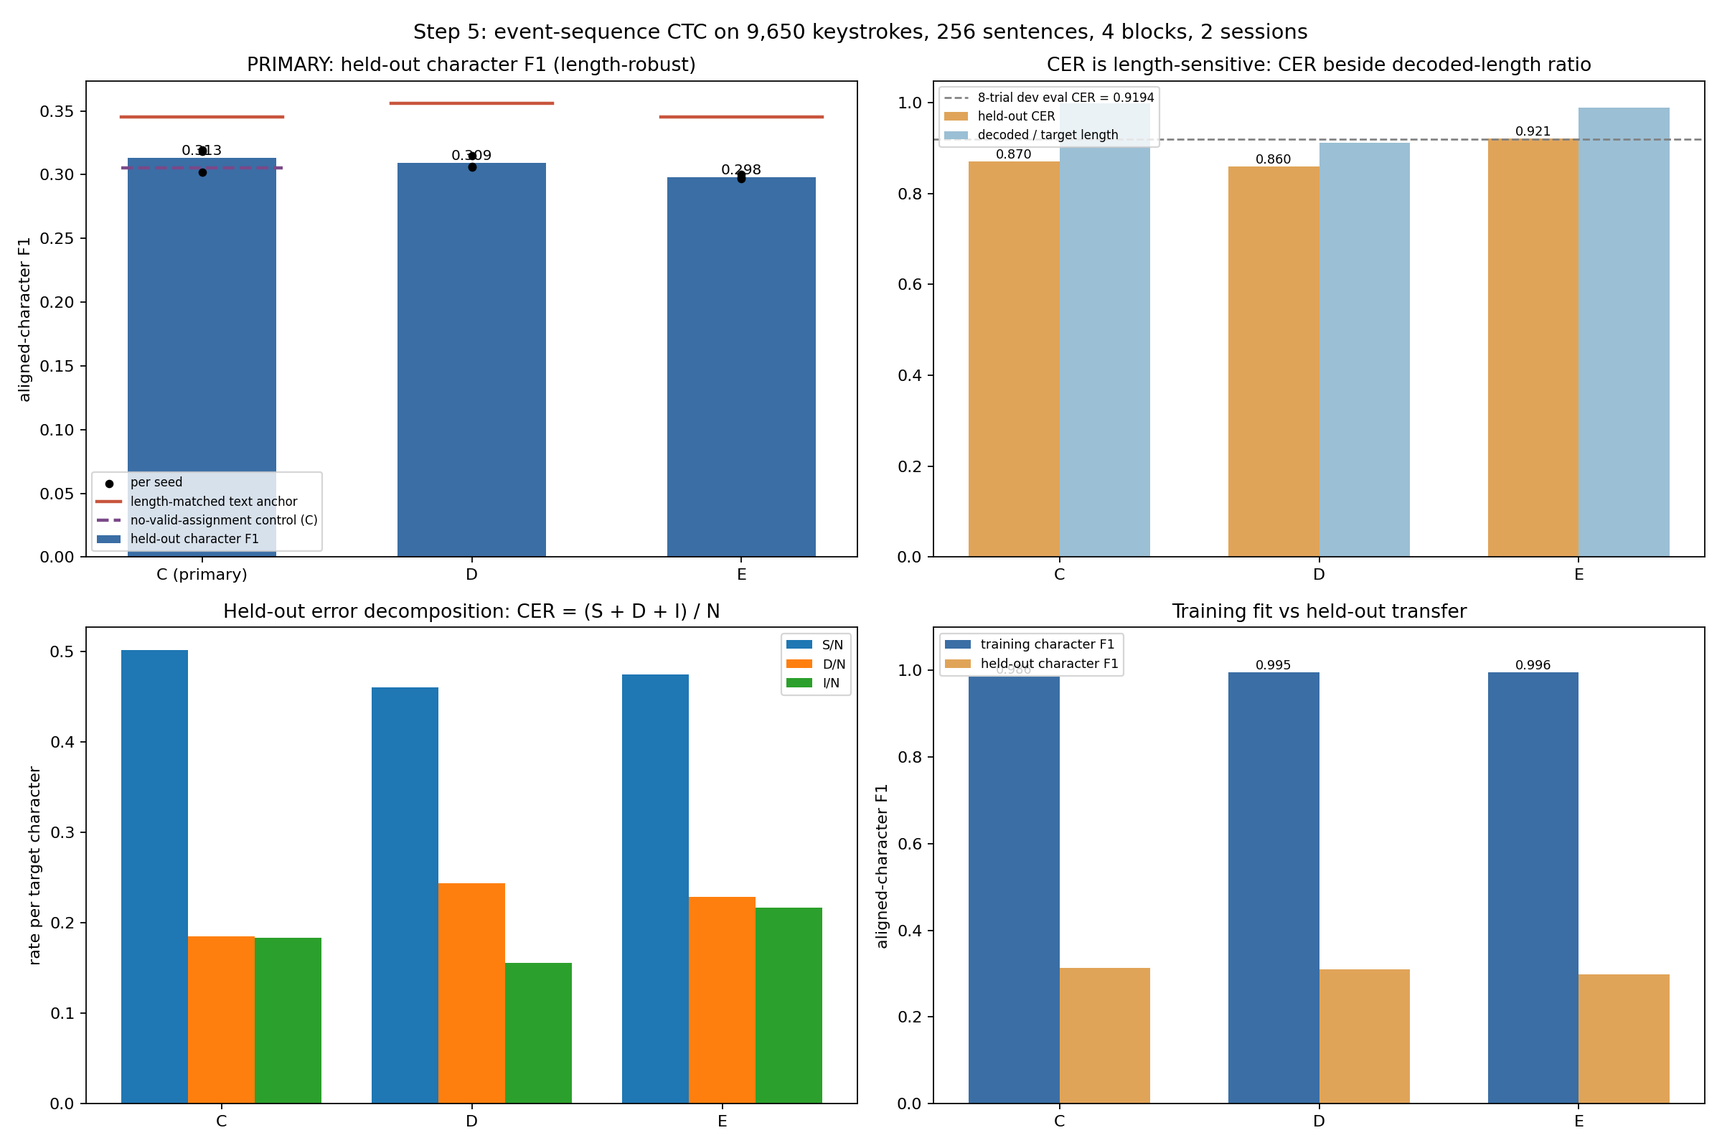
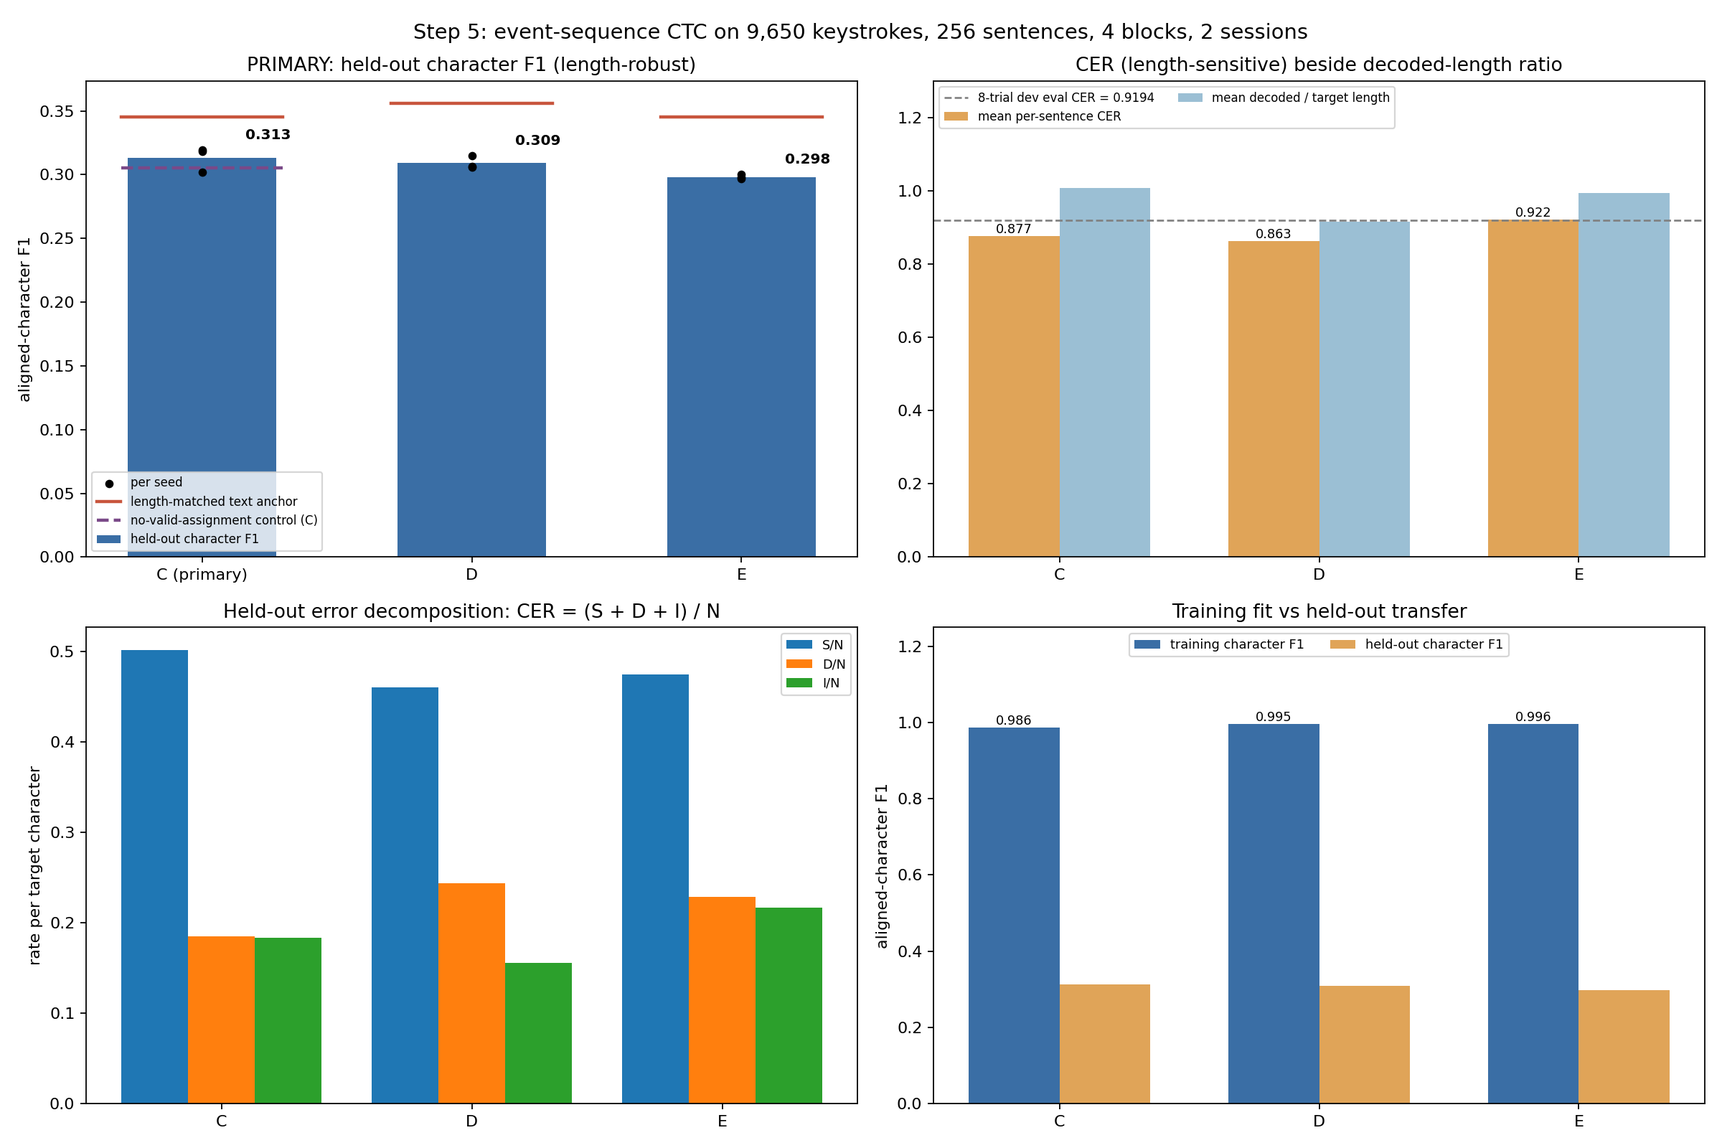
fix(analysis): correct control anchor, figure claims, and probe chance fields
The length-matched text anchor scores held-out text against training targets,
so it is only defined for real runs; a control run's training targets are
permuted. The control summary no longer carries that ill-defined field. Every
other number in both artifacts is unchanged.

The control figure claimed 'lower control CER tracks its shorter output'. That
held at two seeds but not at three: pooled control CER is now higher (0.892 vs
0.877) and the real-vs-control CER sign flips by seed. The title now says so.

The CTC CER panel compared pooled character-level CER against the 8-trial
reference line, which is a mean of per-sentence CER. Both now use the
per-sentence mean.

The probe artifact is regenerated by the current script: every pre-existing
metric is bit-identical, and it now carries chance balanced accuracy.

The phase summary gains Step 7 on character F1 (from the stored 8-trial
decodes), a cross-run length analysis, a seed-paired real-vs-control
comparison, a fresh re-hash of every raw FIF and MAT file, and the test run.

diff --git a/scripts/s22_expanded_phase_summary.py b/scripts/s22_expanded_phase_summary.py
@@ -8,11 +8,14 @@ and quantifies the data-scale change. Nothing is trained or downloaded here.
 from __future__ import annotations
 
 import hashlib
+import importlib.util
 import json
 import platform
+import re
 import statistics
 import subprocess
 import sys
+import tempfile
 from pathlib import Path
 
 import matplotlib.pyplot as plt
@@ -59,6 +62,175 @@ def sha256_file(path: Path) -> str:
         for chunk in iter(lambda: handle.read(1 << 24), b""):
             digest.update(chunk)
     return digest.hexdigest()
+
+
+def load_aggregator():
+    """Reuse the aggregator's alignment so every F1 in the phase is computed one way."""
+    spec = importlib.util.spec_from_file_location(
+        "s22_expanded_ctc_aggregate", ROOT / "scripts/s22_expanded_ctc_aggregate.py"
+    )
+    module = importlib.util.module_from_spec(spec)
+    spec.loader.exec_module(module)
+    return module
+
+
+def eight_trial_f1(path: Path, aggregator) -> dict | None:
+    """Character F1 for an earlier 8-trial run, from its stored decoded strings."""
+    artifact = read(path)
+    if not artifact:
+        return None
+    pooled = dict.fromkeys(("substitutions", "deletions", "insertions", "hits",
+                            "reference_characters", "hypothesis_characters"), 0)
+    per_seed = []
+    for result in artifact["seed_results"]:
+        totals = dict.fromkeys(pooled, 0)
+        for row in result["evaluation_predictions"]:
+            s, d, i, hits = aggregator.edit_components(row["target"], row["decoded"])
+            for key, value in (("substitutions", s), ("deletions", d), ("insertions", i), ("hits", hits),
+                               ("reference_characters", len(row["target"])),
+                               ("hypothesis_characters", len(row["decoded"]))):
+                totals[key] += value
+                pooled[key] += value
+        per_seed.append({"seed": result["seed"],
+                         "evaluation_sentences": len(result["evaluation_predictions"]),
+                         **aggregator.rates(totals)})
+    return {"per_seed": per_seed, **aggregator.rates(pooled), "counts": pooled}
+
+
+def pearson(x: list[float], y: list[float]) -> float:
+    return float(np.corrcoef(np.asarray(x), np.asarray(y))[0, 1])
+
+
+def length_analysis(ctc: dict, control: dict | None) -> dict:
+    """Across every trained run: does CER track output length, and does F1?"""
+    rows = []
+    for split, summary in ctc["splits"].items():
+        for seed in summary["evaluation_error_decomposition"]["per_seed"]:
+            rows.append({"run": f"{split}/real/{seed['seed']}", **{k: seed[k] for k in (
+                "micro_cer", "character_f1", "length_ratio", "insertion_rate", "deletion_rate")}})
+    if control:
+        for seed in control["control"]["evaluation_error_decomposition"]["per_seed"]:
+            rows.append({"run": f"C/control/{seed['seed']}", **{k: seed[k] for k in (
+                "micro_cer", "character_f1", "length_ratio", "insertion_rate", "deletion_rate")}})
+    cer = [row["micro_cer"] for row in rows]
+    f1 = [row["character_f1"] for row in rows]
+    length = [row["length_ratio"] for row in rows]
+    return {
+        "runs": len(rows),
+        "per_run": rows,
+        "pearson_r_cer_vs_length_ratio": pearson(cer, length),
+        "pearson_r_character_f1_vs_length_ratio": pearson(f1, length),
+        "pearson_r_insertion_rate_vs_length_ratio": pearson([row["insertion_rate"] for row in rows], length),
+        "pearson_r_deletion_rate_vs_length_ratio": pearson([row["deletion_rate"] for row in rows], length),
+        "cer_range": [min(cer), max(cer)],
+        "character_f1_range": [min(f1), max(f1)],
+        "length_ratio_range": [min(length), max(length)],
+        "note": ("Descriptive correlations across the trained runs, not a hypothesis test. "
+                 "Each run is one seed of one condition."),
+    }
+
+
+def paired_control(ctc: dict, control: dict | None) -> dict | None:
+    """Split C real vs control, paired by seed.
+
+    For a given seed the two runs share the same initialization and the same
+    batch order (grouping is by sequence length, which the permutation leaves
+    unchanged); only the training targets differ. This is the tightest
+    comparison the design allows.
+    """
+    if not control:
+        return None
+    real = {row["seed"]: row for row in ctc["splits"]["C"]["evaluation_error_decomposition"]["per_seed"]}
+    permuted = {row["seed"]: row for row in control["control"]["evaluation_error_decomposition"]["per_seed"]}
+    pairs = []
+    for seed in sorted(set(real) & set(permuted)):
+        pairs.append({
+            "seed": seed,
+            "real_character_f1": real[seed]["character_f1"],
+            "control_character_f1": permuted[seed]["character_f1"],
+            "f1_real_minus_control": real[seed]["character_f1"] - permuted[seed]["character_f1"],
+            "real_cer": real[seed]["micro_cer"],
+            "control_cer": permuted[seed]["micro_cer"],
+            "cer_real_minus_control": real[seed]["micro_cer"] - permuted[seed]["micro_cer"],
+            "real_length_ratio": real[seed]["length_ratio"],
+            "control_length_ratio": permuted[seed]["length_ratio"],
+        })
+    differences = [pair["f1_real_minus_control"] for pair in pairs]
+    real_f1 = [pair["real_character_f1"] for pair in pairs]
+    control_f1 = [pair["control_character_f1"] for pair in pairs]
+    above = sum(1 for value in differences if value > 0)
+    within_spread = max(abs(value) for value in differences) <= max(
+        max(real_f1) - min(real_f1), max(control_f1) - min(control_f1)
+    )
+    return {
+        "design": "same seed = same initialization and same batch order; only the training targets differ",
+        "pairs": pairs,
+        "mean_f1_difference_real_minus_control": float(np.mean(differences)),
+        "pairs_with_real_above_control": above,
+        "pairs_total": len(pairs),
+        "f1_difference_range": [float(min(differences)), float(max(differences))],
+        "real_f1_seed_range": float(max(real_f1) - min(real_f1)),
+        "control_f1_seed_range": float(max(control_f1) - min(control_f1)),
+        "largest_pair_difference_within_seed_spread": bool(within_spread),
+        "chance_of_this_many_same_sign_pairs": 0.5 ** len(pairs) if above in (0, len(pairs)) else None,
+        "significance_testing_performed": False,
+        "reading": (
+            f"Real labels score above the control in {above} of {len(pairs)} seed pairs, by "
+            f"{min(differences):+.3f} to {max(differences):+.3f} character F1. "
+            + ("That is no larger than the spread between seeds within either condition. "
+               if within_spread else "That exceeds the spread between seeds within each condition. ")
+            + "No significance test was run, so this is not a demonstrated advantage."
+        ),
+    }
+
+
+def verify_raw_files(acquisition: dict | None) -> dict:
+    """Re-hash every raw FIF and MAT now, against the acquisition record."""
+    expected: dict[str, str] = {}
+    if acquisition:
+        for row in acquisition.get("downloads", []):
+            expected[row["remote_path"]] = row["actual_sha256"]
+        expected.update(acquisition.get("protected_file_hashes", {}))
+    data_root = ROOT / "data/raw/spanishbcbl_s22"
+    files = []
+    for path in sorted([*data_root.glob("MEG/FIF/**/*.fif"), *data_root.glob("MEG/logs/*.mat")]):
+        relative = path.relative_to(data_root).as_posix()
+        digest = sha256_file(path)
+        files.append({
+            "file": relative,
+            "sha256": digest,
+            "expected_sha256": expected.get(relative),
+            "matches": expected.get(relative) == digest,
+        })
+    return {
+        "files_hashed": len(files),
+        "all_match_acquisition_record": bool(files) and all(row["matches"] for row in files),
+        "files": files,
+        "hashed_at": "phase-summary run time (not copied from an earlier artifact)",
+    }
+
+
+def run_tests() -> dict:
+    """Run the full NeuroSelect suite and parse pytest's summary line."""
+    basetemp = tempfile.mkdtemp(prefix="neuroselect-pytest-")
+    result = subprocess.run(
+        [sys.executable, "-m", "pytest", "tests", "-q", "-p", "no:cacheprovider", f"--basetemp={basetemp}"],
+        cwd=ROOT, capture_output=True, text=True, env={**__import__("os").environ, "PYTHONPATH": "src"},
+    )
+    lines = [line for line in result.stdout.splitlines() if line.strip()]
+    summary = next((line for line in reversed(lines) if re.search(r"\d+ (passed|failed|error)", line)), "")
+    counts = {key: 0 for key in ("passed", "failed", "skipped", "errors")}
+    for number, word in re.findall(r"(\d+) (passed|failed|skipped|errors?|warnings?)", summary):
+        key = "errors" if word.startswith("error") else word
+        if key in counts:
+            counts[key] = int(number)
+    return {
+        "command": "python -m pytest tests -q",
+        "exit_code": result.returncode,
+        "summary_line": summary.strip("= ").strip(),
+        "collected": sum(counts.values()),
+        **counts,
+    }
 
 
 def read(path: Path) -> dict | None:
@@ -137,10 +309,27 @@ def main() -> None:
     }
 
     # ---- Step 7: baseline comparison ---------------------------------
+    aggregator = load_aggregator()
+    previous_real_f1 = eight_trial_f1(EIGHT_TRIAL, aggregator)
+    previous_control_f1 = eight_trial_f1(PERMUTATION_8, aggregator)
     comparison = None
     if ctc:
         primary = ctc["splits"][ctc["primary_split"]]
         comparison = {
+            "primary_metric": "character_f1",
+            "character_f1": {
+                "previous_8_trial_real": previous_real_f1,
+                "previous_8_trial_control": previous_control_f1,
+                "expanded_primary_C_real": primary["evaluation_error_decomposition"]["character_f1"],
+                "expanded_C_control": (
+                    control["control"]["evaluation_error_decomposition"]["character_f1"] if control else None
+                ),
+                "expanded_D_real": ctc["splits"]["D"]["evaluation_error_decomposition"]["character_f1"],
+                "expanded_E_real": ctc["splits"]["E"]["evaluation_error_decomposition"]["character_f1"],
+                "length_matched_text_anchor_C": primary["unrelated_sentence_reference"]["character_f1"],
+                "caveat": ("The 8-trial F1 rests on 2 held-out sentences per seed (6 sentence decodes in "
+                           "total), so it is far noisier than the expanded result on 128 sentences per seed."),
+            },
             "previous_event_sequence_ctc": {
                 "setting": "8 trials from one block of one session, 6 train / 2 evaluation, 240 keystrokes",
                 "mean_evaluation_cer": PREVIOUS["event_sequence_ctc_mean_eval_cer"],
@@ -221,6 +410,8 @@ def main() -> None:
     }
 
     # ---- Step 12: integrity -------------------------------------------
+    raw_file_check = verify_raw_files(acquisition)
+    tests = run_tests()
     vendor_dirty = git("status", "--porcelain", "--", "vendor/brain2qwerty").splitlines()
     historical_dirty = git("status", "--porcelain", "--", HISTORICAL_PREPROCESSING).splitlines()
     tests_dirty = git("status", "--porcelain", "--", "tests").splitlines()
@@ -232,10 +423,8 @@ def main() -> None:
         "historical_preprocessing_file": HISTORICAL_PREPROCESSING,
         "tests_unmodified": not tests_dirty,
         "raw_data_untracked_or_unchanged": not raw_dirty,
-        "raw_fif_hashes_match_acquisition_record": all(
-            acquisition_hashes.get(path.replace("data/raw/spanishbcbl_s22/", ""), digest) == digest
-            for path, digest in raw_hashes.items()
-        ) if acquisition_hashes else "acquisition record has no comparable hash list",
+        "raw_files": raw_file_check,
+        "raw_fif_and_mat_files_unchanged": raw_file_check["all_match_acquisition_record"],
         "no_dataset_download_this_phase": True,
         "evidence_selector_implemented": False,
         "llm_used": False,
@@ -265,6 +454,9 @@ def main() -> None:
         },
         "data_scale": data_scale,
         "baseline_comparison": comparison,
+        "length_analysis": length_analysis(ctc, control) if ctc else None,
+        "paired_real_vs_control": paired_control(ctc, control) if ctc else None,
+        "tests": tests,
         "reproducibility": reproducibility,
         "integrity": integrity,
         "headline_numbers": {
@@ -272,6 +464,12 @@ def main() -> None:
             "sentences": expanded["sentences"],
             "unique_sentence_texts": expanded["unique_sentence_texts"],
             "primary_ctc_split": ctc["primary_split"] if ctc else None,
+            "primary_ctc_evaluation_character_f1": (
+                ctc["splits"][ctc["primary_split"]]["evaluation_error_decomposition"]["character_f1"] if ctc else None
+            ),
+            "control_evaluation_character_f1": (
+                control["control"]["evaluation_error_decomposition"]["character_f1"] if control else None
+            ),
             "primary_ctc_evaluation_cer": comparison["expanded_primary"]["mean_evaluation_cer"] if comparison else None,
             "control_evaluation_cer": comparison["expanded_target_permutation_control"] if comparison else None,
             "primary_probe_test_accuracy": probe["reports"][probe["primary_split"]]["test"]["accuracy"] if probe else None,
@@ -307,7 +505,7 @@ def main() -> None:
     axes[2].bar(range(len(characters)), shares, color="#7a4988")
     axes[2].set_xticks(range(len(characters)), ["space" if c == " " else c for c in characters], fontsize=8)
     axes[2].set_ylabel("share of all events")
-    axes[2].set_title("Event class distribution (top 15 of 29)")
+    axes[2].set_title(f"Event class distribution (top {len(characters)} of {len(expanded['class_distribution'])} observed classes)")
     figure.suptitle("Expanded-data baseline phase: dataset summary", fontsize=12)
     figure.tight_layout()
     FIGURE_PATH.parent.mkdir(parents=True, exist_ok=True)
@@ -318,6 +516,7 @@ def main() -> None:
         "artifact": str(OUT_PATH.relative_to(ROOT)),
         "headline_numbers": artifact["headline_numbers"],
         "integrity": {k: v for k, v in integrity.items() if isinstance(v, (bool, str)) and k != "official_v1_preprocessing_semantics_note"},
+        "tests": tests,
     }, indent=2))
 
 

diff --git a/scripts/s22_expanded_ctc_aggregate.py b/scripts/s22_expanded_ctc_aggregate.py
@@ -232,7 +232,11 @@ def split_summary(runs: list[dict]) -> dict:
         "train": across_seeds(runs, "train_aggregate"),
         "evaluation": across_seeds(runs, "evaluation_aggregate"),
         "evaluation_error_decomposition": error_decomposition(runs, "evaluation_predictions"),
-        "unrelated_sentence_reference": unrelated_sentence_reference(runs),
+        # The anchor scores held-out text against *training* targets, so it is only
+        # defined for real runs: a control run's training targets are permuted.
+        "unrelated_sentence_reference": (
+            unrelated_sentence_reference(runs) if reference["mode"] == "real" else None
+        ),
         "train_error_decomposition": error_decomposition(runs, "train_predictions"),
         "evaluation_character_distribution": character_distribution(runs, "evaluation_predictions"),
         "training_seconds_per_seed": [run["training_seconds"] for run in runs],
@@ -430,7 +434,9 @@ def main() -> None:
         anchor_value = ctc_summaries[split]["unrelated_sentence_reference"]["character_f1"]
         top_left.plot([position - 0.3, position + 0.3], [anchor_value, anchor_value], color="#c8553d",
                       linewidth=2, label="length-matched text anchor" if position == 0 else None)
-        top_left.text(position, f1[position], f"{f1[position]:.3f}", ha="center", va="bottom", fontsize=9)
+        label_y = max([f1[position], *per_seed_f1[position]]) + 0.006
+        top_left.text(position + 0.16, label_y, f"{f1[position]:.3f}", ha="left", va="bottom", fontsize=9,
+                      fontweight="bold")
     if control_artifact:
         value = control_summary["evaluation_error_decomposition"]["character_f1"]
         top_left.plot([-0.3, 0.3], [value, value], color="#7a4988", linewidth=2, linestyle="--",
@@ -441,17 +447,19 @@ def main() -> None:
     top_left.legend(fontsize=7.5)
 
     top_right = axes[0][1]
-    eval_cer = [ctc_summaries[s]["evaluation_error_decomposition"]["micro_cer"] for s in order]
-    length = [ctc_summaries[s]["evaluation_error_decomposition"]["length_ratio"] for s in order]
-    top_right.bar(positions - width / 2, eval_cer, width, label="held-out CER", color="#e0a458")
-    top_right.bar(positions + width / 2, length, width, label="decoded / target length", color="#9bbfd4")
+    # Mean of per-sentence CER: the same definition as the 8-trial reference line.
+    eval_cer = [ctc_summaries[s]["evaluation"]["mean_cer"]["mean"] for s in order]
+    length = [ctc_summaries[s]["evaluation"]["mean_decoded_target_ratio"]["mean"] for s in order]
+    top_right.bar(positions - width / 2, eval_cer, width, label="mean per-sentence CER", color="#e0a458")
+    top_right.bar(positions + width / 2, length, width, label="mean decoded / target length", color="#9bbfd4")
     top_right.axhline(PREVIOUS_EIGHT_TRIAL_CTC, color="grey", linestyle="--", linewidth=1.2,
                       label=f"8-trial dev eval CER = {PREVIOUS_EIGHT_TRIAL_CTC}")
     for position, value in zip(positions, eval_cer):
         top_right.text(position - width / 2, value, f"{value:.3f}", ha="center", va="bottom", fontsize=8)
     top_right.set_xticks(positions, order)
-    top_right.set_title("CER is length-sensitive: CER beside decoded-length ratio")
-    top_right.legend(fontsize=7.5)
+    top_right.set_ylim(0, 1.3)
+    top_right.set_title("CER (length-sensitive) beside decoded-length ratio")
+    top_right.legend(fontsize=7.5, loc="upper left", ncol=2)
 
     bottom_left = axes[1][0]
     components = [("substitution_rate", "S/N"), ("deletion_rate", "D/N"), ("insertion_rate", "I/N")]
@@ -472,10 +480,10 @@ def main() -> None:
     for position, value in zip(positions, train_f1):
         bottom_right.text(position - width / 2, value, f"{value:.3f}", ha="center", va="bottom", fontsize=8)
     bottom_right.set_xticks(positions, order)
-    bottom_right.set_ylim(0, 1.1)
+    bottom_right.set_ylim(0, 1.25)
     bottom_right.set_ylabel("aligned-character F1")
     bottom_right.set_title("Training fit vs held-out transfer")
-    bottom_right.legend(fontsize=8)
+    bottom_right.legend(fontsize=8, loc="upper center", ncol=2)
 
     figure.suptitle("Step 5: event-sequence CTC on 9,650 keystrokes, 256 sentences, 4 blocks, 2 sessions",
                     fontsize=13)
@@ -497,7 +505,8 @@ def main() -> None:
         for index, values in enumerate([real_f1, control_f1]):
             axes[0].scatter([index] * len(values), values, color="black", zorder=3, s=22,
                             label="per seed" if index == 0 else None)
-            axes[0].text(index, pooled[index], f"{pooled[index]:.3f}", ha="center", va="bottom", fontsize=9)
+            axes[0].text(index + 0.16, max([pooled[index], *values]) + 0.006, f"{pooled[index]:.3f}",
+                         ha="left", va="bottom", fontsize=9, fontweight="bold")
         anchor_value = real_summary["unrelated_sentence_reference"]["character_f1"]
         axes[0].axhline(anchor_value, color="#2e7d32", linewidth=2, linestyle="--",
                         label=f"length-matched text anchor = {anchor_value:.3f}")
@@ -505,10 +514,10 @@ def main() -> None:
         axes[0].set_title("PRIMARY: held-out character F1 (length-robust)")
         axes[0].legend(fontsize=7.5)
 
-        keys = [("micro_cer", "CER"), ("length_ratio", "decoded/target length")]
+        keys = [("mean_cer", "mean per-sentence CER"), ("mean_decoded_target_ratio", "decoded/target length")]
         positions = np.arange(len(keys))
-        real_errors_side = real_summary["evaluation_error_decomposition"]
-        control_errors_side = control_summary["evaluation_error_decomposition"]
+        real_errors_side = {k: real_summary["evaluation"][k]["mean"] for k, _ in keys}
+        control_errors_side = {k: control_summary["evaluation"][k]["mean"] for k, _ in keys}
         axes[1].bar(positions - width / 2, [real_errors_side[k] for k, _ in keys], width,
                     label="real labels", color=colours[0])
         axes[1].bar(positions + width / 2, [control_errors_side[k] for k, _ in keys], width,
@@ -519,7 +528,7 @@ def main() -> None:
             axes[1].text(position + width / 2, control_errors_side[key], f"{control_errors_side[key]:.3f}",
                          ha="center", va="bottom", fontsize=8)
         axes[1].set_xticks(positions, [label for _, label in keys], fontsize=9)
-        axes[1].set_title("Lower control CER tracks its shorter output")
+        axes[1].set_title("CER and output length, mean over 3 seeds\n(the real-vs-control CER sign flips by seed)")
         axes[1].legend(fontsize=8)
 
         real_errors = real_summary["evaluation_error_decomposition"]
